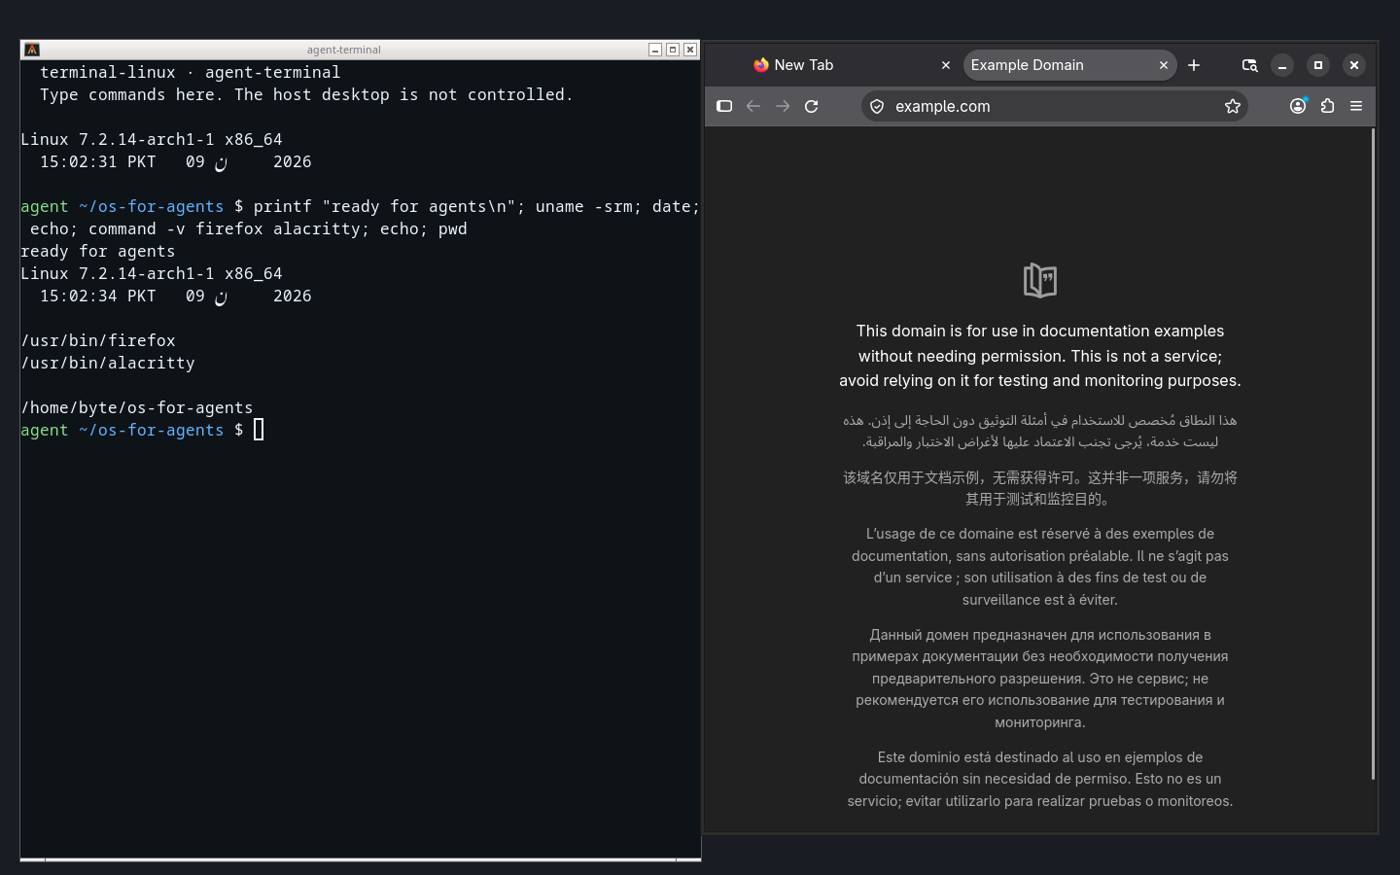
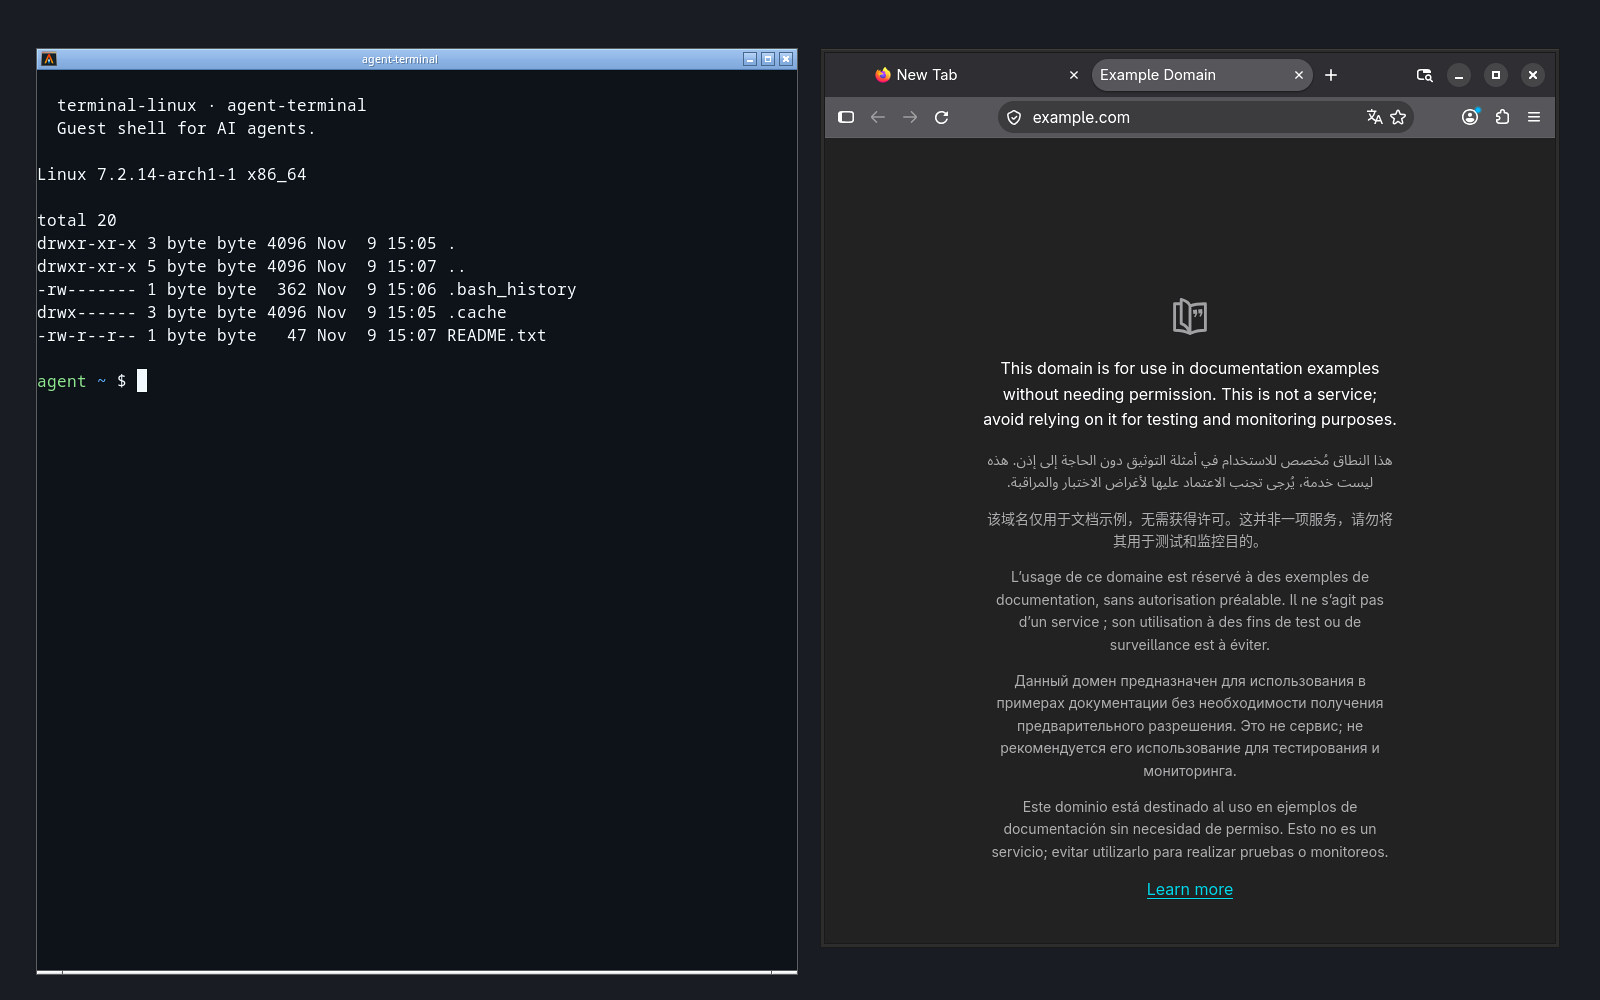
Refresh README screenshots with a clean agent-terminal and desktop layout.

diff --git a/src/terminal_linux/session.py b/src/terminal_linux/session.py
@@ -125,16 +125,23 @@ def paint_desktop(env: dict[str, str], width: int, height: int, name: str) -> No
                     magick,
                     "-size",
                     f"{width}x{height}",
-                    "xc:#1a1d23",
+                    f"gradient:#12151c-#1e2633",
                     "-gravity",
                     "center",
                     "-fill",
-                    "#8b93a7",
+                    "#c5cee0",
                     "-pointsize",
-                    "28",
+                    "36",
                     "-annotate",
                     "0",
-                    f"terminal-linux · {name}",
+                    "terminal-linux",
+                    "-fill",
+                    "#7f8ba3",
+                    "-pointsize",
+                    "18",
+                    "-annotate",
+                    "+0+42",
+                    "AI agent desktop",
                     str(wallpaper),
                 ],
                 check=True,
@@ -344,6 +351,16 @@ def _prepare_command(name: str, command: list[str]) -> tuple[list[str], dict[str
             if flag not in cmd:
                 cmd.insert(1, flag)
         env["GDK_BACKEND"] = "x11"
+    elif app in {"alacritty", "kitty", "xterm", "xfce4-terminal"}:
+        guest_home = machine_dir(name) / "guest-home"
+        guest_home.mkdir(parents=True, exist_ok=True)
+        (guest_home / "README.txt").write_text(
+            "terminal-linux guest home\nAI agents work here.\n"
+        )
+        env["HOME"] = str(guest_home)
+        env["TERMINAL_LINUX_GUEST_HOME"] = str(guest_home)
+        env["LANG"] = "C"
+        env["LC_ALL"] = "C"
 
     return cmd, env
 
